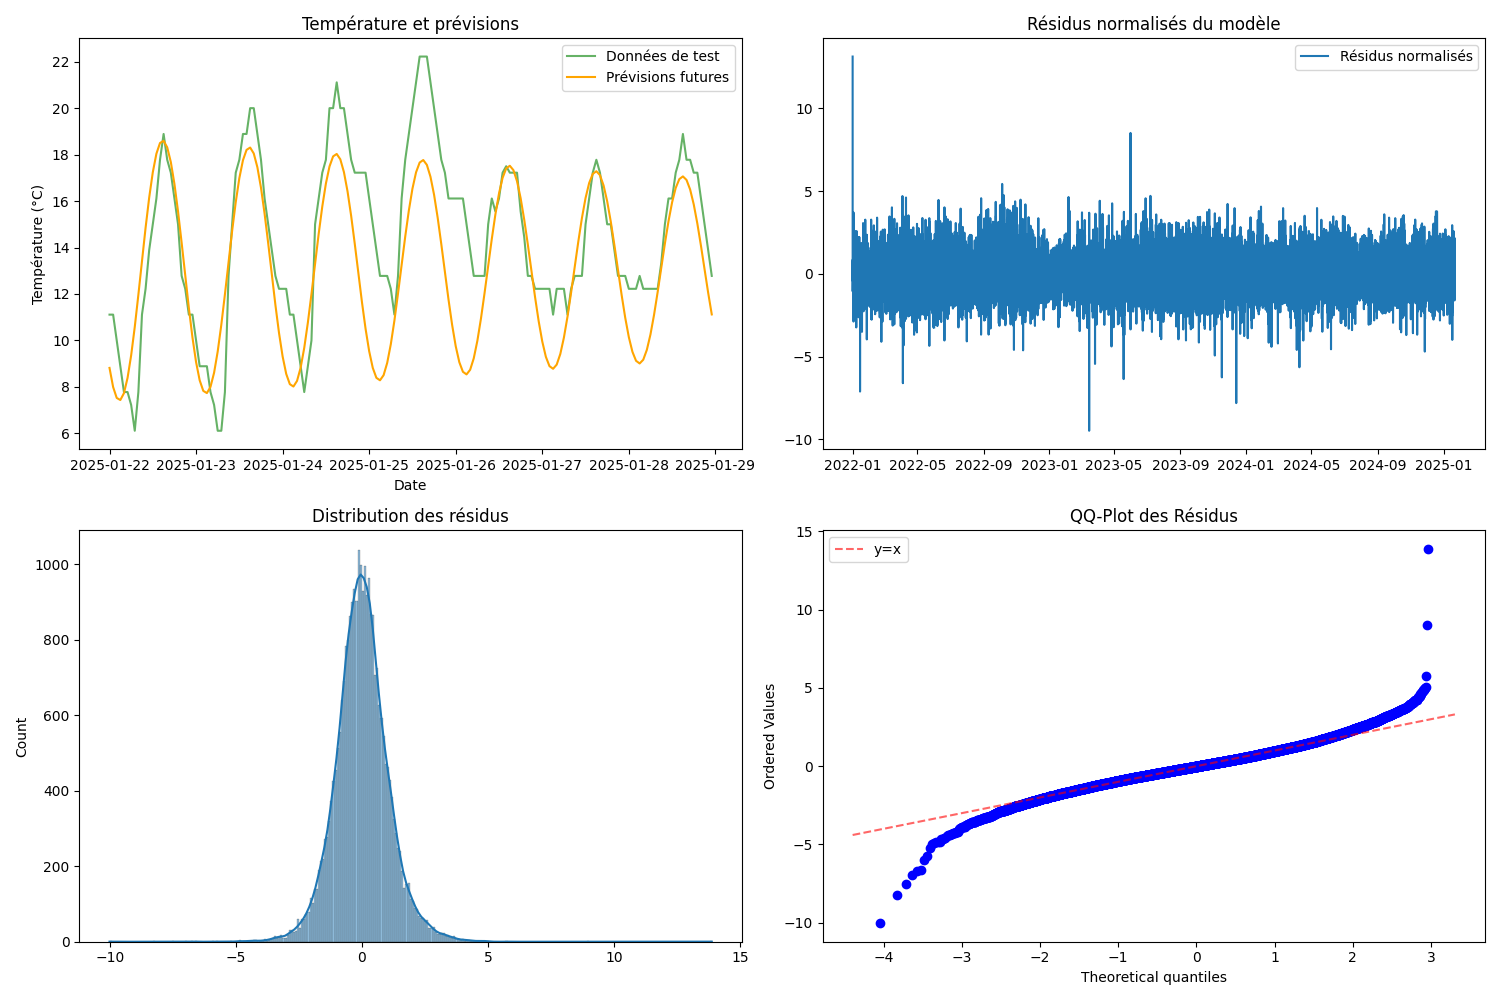
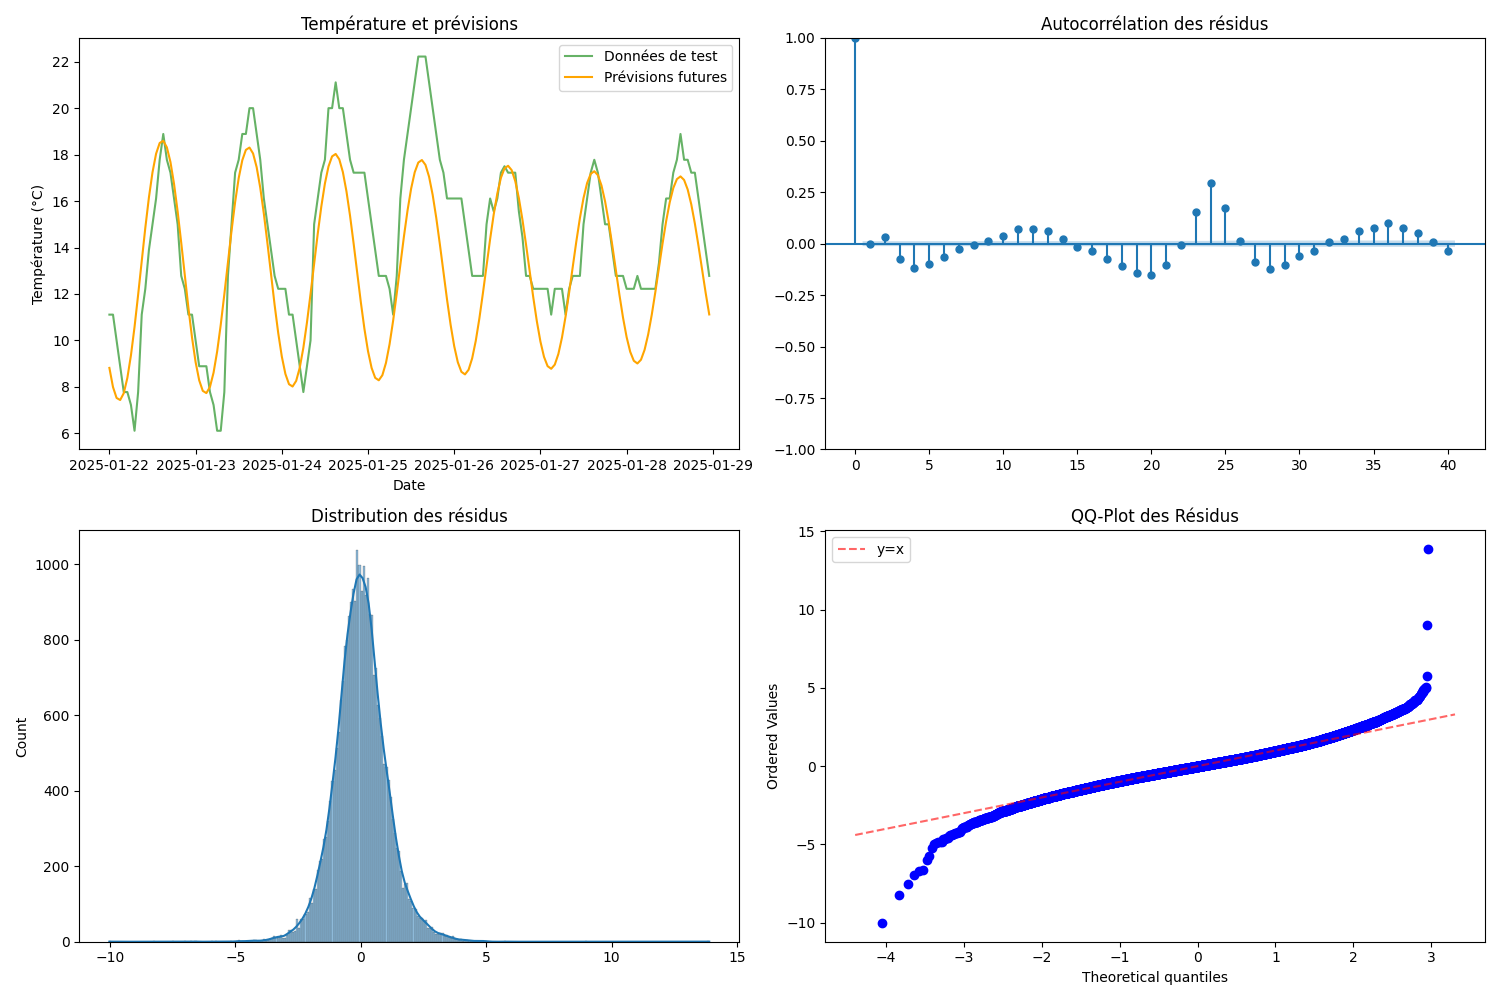
update graphe residu

diff --git a/results/weather_arima_autocorrelation.html b/results/weather_arima_autocorrelation.html
@@ -1,0 +1,7 @@
+<html>
+<head><meta charset="utf-8" /></head>
+<body>
+    <div>                        <script type="text/javascript">window.PlotlyConfig = {MathJaxConfig: 'local'};</script>
+        <script charset="utf-8" src="https://cdn.plot.ly/plotly-3.0.1.min.js"></script>                <div id="1fe10de1-fd3c-4826-87fc-9b6accea988b" class="plotly-graph-div" style="height:100%; width:100%;"></div>            <script type="text/javascript">                window.PLOTLYENV=window.PLOTLYENV || {};                                if (document.getElementById("1fe10de1-fd3c-4826-87fc-9b6accea988b")) {                    Plotly.newPlot(                        "1fe10de1-fd3c-4826-87fc-9b6accea988b",                        [{"name":"ACF","x":{"dtype":"i1","bdata":"AAECAwQFBgcICQoLDA0ODxAREhMUFRYXGBkaGxwdHh8gISIjJCUmJyg="},"y":{"dtype":"f8","bdata":"AAAAAAAA8D8zRkIDRnpmvxGBt0pakp8\u002f7rMiAuBAs79AdEeLuOe+v2jHeI18Urm\u002fcqatGunpsL\u002fzheldlnabv2Oip6cOlXa\u002f6y4Ux9W1iz8AziVPQRWkP42sIHuB7LE\u002fXawtO3TMsT+qq66B+MWuPwFlD1SY3pc\u002fH8XyHggbjb\u002fPJ2a0X\u002fGhvxvvwPNpZrO\u002fqdVTPRDLu7+75JFKXxbCvwVXd38HfMO\u002fnQEQ8XMXu79K7GdnEZN5v78OLbUtz8M\u002fTYreX3m20j+Irqb\u002fE2XGP2iyD6ESzYY\u002fKNbdF0iUtr9\u002f7ZUHRB6\u002fvzXCCX5fqrq\u002fEOS5hu7Brr9GXs\u002fe9Wmiv0SeCo03SXk\u002fUcfegbwimD+aC0VLw8iuP1Hf4ETzerM\u002flaHyew+suT8gUUGVgAa0PzbK1XuwSqs\u002fEvOgMzVidz+CFgEMm0Kivw=="},"type":"bar"}],                        {"template":{"data":{"histogram2dcontour":[{"type":"histogram2dcontour","colorbar":{"outlinewidth":0,"ticks":""},"colorscale":[[0.0,"#0d0887"],[0.1111111111111111,"#46039f"],[0.2222222222222222,"#7201a8"],[0.3333333333333333,"#9c179e"],[0.4444444444444444,"#bd3786"],[0.5555555555555556,"#d8576b"],[0.6666666666666666,"#ed7953"],[0.7777777777777778,"#fb9f3a"],[0.8888888888888888,"#fdca26"],[1.0,"#f0f921"]]}],"choropleth":[{"type":"choropleth","colorbar":{"outlinewidth":0,"ticks":""}}],"histogram2d":[{"type":"histogram2d","colorbar":{"outlinewidth":0,"ticks":""},"colorscale":[[0.0,"#0d0887"],[0.1111111111111111,"#46039f"],[0.2222222222222222,"#7201a8"],[0.3333333333333333,"#9c179e"],[0.4444444444444444,"#bd3786"],[0.5555555555555556,"#d8576b"],[0.6666666666666666,"#ed7953"],[0.7777777777777778,"#fb9f3a"],[0.8888888888888888,"#fdca26"],[1.0,"#f0f921"]]}],"heatmap":[{"type":"heatmap","colorbar":{"outlinewidth":0,"ticks":""},"colorscale":[[0.0,"#0d0887"],[0.1111111111111111,"#46039f"],[0.2222222222222222,"#7201a8"],[0.3333333333333333,"#9c179e"],[0.4444444444444444,"#bd3786"],[0.5555555555555556,"#d8576b"],[0.6666666666666666,"#ed7953"],[0.7777777777777778,"#fb9f3a"],[0.8888888888888888,"#fdca26"],[1.0,"#f0f921"]]}],"contourcarpet":[{"type":"contourcarpet","colorbar":{"outlinewidth":0,"ticks":""}}],"contour":[{"type":"contour","colorbar":{"outlinewidth":0,"ticks":""},"colorscale":[[0.0,"#0d0887"],[0.1111111111111111,"#46039f"],[0.2222222222222222,"#7201a8"],[0.3333333333333333,"#9c179e"],[0.4444444444444444,"#bd3786"],[0.5555555555555556,"#d8576b"],[0.6666666666666666,"#ed7953"],[0.7777777777777778,"#fb9f3a"],[0.8888888888888888,"#fdca26"],[1.0,"#f0f921"]]}],"surface":[{"type":"surface","colorbar":{"outlinewidth":0,"ticks":""},"colorscale":[[0.0,"#0d0887"],[0.1111111111111111,"#46039f"],[0.2222222222222222,"#7201a8"],[0.3333333333333333,"#9c179e"],[0.4444444444444444,"#bd3786"],[0.5555555555555556,"#d8576b"],[0.6666666666666666,"#ed7953"],[0.7777777777777778,"#fb9f3a"],[0.8888888888888888,"#fdca26"],[1.0,"#f0f921"]]}],"mesh3d":[{"type":"mesh3d","colorbar":{"outlinewidth":0,"ticks":""}}],"scatter":[{"fillpattern":{"fillmode":"overlay","size":10,"solidity":0.2},"type":"scatter"}],"parcoords":[{"type":"parcoords","line":{"colorbar":{"outlinewidth":0,"ticks":""}}}],"scatterpolargl":[{"type":"scatterpolargl","marker":{"colorbar":{"outlinewidth":0,"ticks":""}}}],"bar":[{"error_x":{"color":"#2a3f5f"},"error_y":{"color":"#2a3f5f"},"marker":{"line":{"color":"#E5ECF6","width":0.5},"pattern":{"fillmode":"overlay","size":10,"solidity":0.2}},"type":"bar"}],"scattergeo":[{"type":"scattergeo","marker":{"colorbar":{"outlinewidth":0,"ticks":""}}}],"scatterpolar":[{"type":"scatterpolar","marker":{"colorbar":{"outlinewidth":0,"ticks":""}}}],"histogram":[{"marker":{"pattern":{"fillmode":"overlay","size":10,"solidity":0.2}},"type":"histogram"}],"scattergl":[{"type":"scattergl","marker":{"colorbar":{"outlinewidth":0,"ticks":""}}}],"scatter3d":[{"type":"scatter3d","line":{"colorbar":{"outlinewidth":0,"ticks":""}},"marker":{"colorbar":{"outlinewidth":0,"ticks":""}}}],"scattermap":[{"type":"scattermap","marker":{"colorbar":{"outlinewidth":0,"ticks":""}}}],"scattermapbox":[{"type":"scattermapbox","marker":{"colorbar":{"outlinewidth":0,"ticks":""}}}],"scatterternary":[{"type":"scatterternary","marker":{"colorbar":{"outlinewidth":0,"ticks":""}}}],"scattercarpet":[{"type":"scattercarpet","marker":{"colorbar":{"outlinewidth":0,"ticks":""}}}],"carpet":[{"aaxis":{"endlinecolor":"#2a3f5f","gridcolor":"white","linecolor":"white","minorgridcolor":"white","startlinecolor":"#2a3f5f"},"baxis":{"endlinecolor":"#2a3f5f","gridcolor":"white","linecolor":"white","minorgridcolor":"white","startlinecolor":"#2a3f5f"},"type":"carpet"}],"table":[{"cells":{"fill":{"color":"#EBF0F8"},"line":{"color":"white"}},"header":{"fill":{"color":"#C8D4E3"},"line":{"color":"white"}},"type":"table"}],"barpolar":[{"marker":{"line":{"color":"#E5ECF6","width":0.5},"pattern":{"fillmode":"overlay","size":10,"solidity":0.2}},"type":"barpolar"}],"pie":[{"automargin":true,"type":"pie"}]},"layout":{"autotypenumbers":"strict","colorway":["#636efa","#EF553B","#00cc96","#ab63fa","#FFA15A","#19d3f3","#FF6692","#B6E880","#FF97FF","#FECB52"],"font":{"color":"#2a3f5f"},"hovermode":"closest","hoverlabel":{"align":"left"},"paper_bgcolor":"white","plot_bgcolor":"#E5ECF6","polar":{"bgcolor":"#E5ECF6","angularaxis":{"gridcolor":"white","linecolor":"white","ticks":""},"radialaxis":{"gridcolor":"white","linecolor":"white","ticks":""}},"ternary":{"bgcolor":"#E5ECF6","aaxis":{"gridcolor":"white","linecolor":"white","ticks":""},"baxis":{"gridcolor":"white","linecolor":"white","ticks":""},"caxis":{"gridcolor":"white","linecolor":"white","ticks":""}},"coloraxis":{"colorbar":{"outlinewidth":0,"ticks":""}},"colorscale":{"sequential":[[0.0,"#0d0887"],[0.1111111111111111,"#46039f"],[0.2222222222222222,"#7201a8"],[0.3333333333333333,"#9c179e"],[0.4444444444444444,"#bd3786"],[0.5555555555555556,"#d8576b"],[0.6666666666666666,"#ed7953"],[0.7777777777777778,"#fb9f3a"],[0.8888888888888888,"#fdca26"],[1.0,"#f0f921"]],"sequentialminus":[[0.0,"#0d0887"],[0.1111111111111111,"#46039f"],[0.2222222222222222,"#7201a8"],[0.3333333333333333,"#9c179e"],[0.4444444444444444,"#bd3786"],[0.5555555555555556,"#d8576b"],[0.6666666666666666,"#ed7953"],[0.7777777777777778,"#fb9f3a"],[0.8888888888888888,"#fdca26"],[1.0,"#f0f921"]],"diverging":[[0,"#8e0152"],[0.1,"#c51b7d"],[0.2,"#de77ae"],[0.3,"#f1b6da"],[0.4,"#fde0ef"],[0.5,"#f7f7f7"],[0.6,"#e6f5d0"],[0.7,"#b8e186"],[0.8,"#7fbc41"],[0.9,"#4d9221"],[1,"#276419"]]},"xaxis":{"gridcolor":"white","linecolor":"white","ticks":"","title":{"standoff":15},"zerolinecolor":"white","automargin":true,"zerolinewidth":2},"yaxis":{"gridcolor":"white","linecolor":"white","ticks":"","title":{"standoff":15},"zerolinecolor":"white","automargin":true,"zerolinewidth":2},"scene":{"xaxis":{"backgroundcolor":"#E5ECF6","gridcolor":"white","linecolor":"white","showbackground":true,"ticks":"","zerolinecolor":"white","gridwidth":2},"yaxis":{"backgroundcolor":"#E5ECF6","gridcolor":"white","linecolor":"white","showbackground":true,"ticks":"","zerolinecolor":"white","gridwidth":2},"zaxis":{"backgroundcolor":"#E5ECF6","gridcolor":"white","linecolor":"white","showbackground":true,"ticks":"","zerolinecolor":"white","gridwidth":2}},"shapedefaults":{"line":{"color":"#2a3f5f"}},"annotationdefaults":{"arrowcolor":"#2a3f5f","arrowhead":0,"arrowwidth":1},"geo":{"bgcolor":"white","landcolor":"#E5ECF6","subunitcolor":"white","showland":true,"showlakes":true,"lakecolor":"white"},"title":{"x":0.05},"mapbox":{"style":"light"}}},"shapes":[{"line":{"color":"red","dash":"dash"},"type":"line","x0":0,"x1":40,"y0":0.011979983554976594,"y1":0.011979983554976594},{"line":{"color":"red","dash":"dash"},"type":"line","x0":0,"x1":40,"y0":-0.011979983554976594,"y1":-0.011979983554976594}],"title":{"text":"ACF des r\u00e9sidus"},"xaxis":{"title":{"text":"Lag"}},"showlegend":true,"yaxis":{"title":{"text":"Autocorr\u00e9lation"}}},                        {"responsive": true}                    )                };            </script>        </div>
+</body>
+</html>

diff --git a/scripts/weather_arima.py b/scripts/weather_arima.py
@@ -10,6 +10,7 @@ from arch import arch_model
 import statsmodels.api as sm
 from statsmodels.graphics.tsaplots import plot_acf
 from plot_corr_predit import plot_correlation  
+import plotly.graph_objects as go
 
 # Ignore les warnings pour un affichage plus propre
 warnings.filterwarnings("ignore")
@@ -80,6 +81,7 @@ def plot_results(data, model_fit, test_data=None):
     # Prédictions sur les données d'entraînement
     forecast = model_fit.get_prediction(start=data.index[0], end=data.index[-1])
     forecast_mean = forecast.predicted_mean
+    residuals = data - forecast_mean
     
     # Prédictions futures
     future_steps = len(test_data)  # 24 heures
@@ -91,24 +93,19 @@ def plot_results(data, model_fit, test_data=None):
     
     # 1. Données et prédictions
     plt.subplot(2, 2, 1)
-    #plt.plot(data, label='Données d\'entraînement', color='blue', alpha=0.6)
     if test_data is not None:
         plt.plot(test_data, label='Données de test', color='green', alpha=0.6)
-    #plt.plot(forecast_mean.index, forecast_mean, label='Prévisions ARIMA', color='red')
     plt.plot(future_forecast_mean.index, future_forecast_mean, label='Prévisions futures', color='orange')
     plt.title('Température et prévisions')
     plt.xlabel('Date')
     plt.ylabel('Température (°C)')
     plt.legend()
     
-    # 2. Résidus normalisés
+    # 2. Autocorrélation des résidus
     plt.subplot(2, 2, 2)
-    residuals = model_fit.resid
-    normalized_residuals = (residuals - residuals.mean()) / residuals.std()
-    plt.plot(normalized_residuals, label='Résidus normalisés')
-    plt.title('Résidus normalisés du modèle')
-    plt.legend()
-    
+    plot_acf(residuals[~np.isnan(residuals)], ax=plt.gca(), lags=40)
+    plt.title('Autocorrélation des résidus')
+
     # 3. Distribution des résidus
     plt.subplot(2, 2, 3)
     sns.histplot(residuals, kde=True)
@@ -118,16 +115,16 @@ def plot_results(data, model_fit, test_data=None):
     plt.subplot(2, 2, 4)
     from scipy import stats
     stats.probplot(residuals, dist="norm", plot=plt)
-    ax = plt.gca()  # Récupère l'axe courant
-    lims = ax.get_xlim()  # Récupère les limites actuelles
-    ax.plot(lims, lims, 'r--', label='y=x', alpha=0.6)  # Trace la droite y=x
+    ax = plt.gca()
+    lims = ax.get_xlim()
+    ax.plot(lims, lims, 'r--', label='y=x', alpha=0.6)
     ax.set_title("QQ-Plot des Résidus")
     ax.legend()
 
-    
     plt.tight_layout()
     plt.savefig('./results/weather_arima_results.png')
     plt.show()
+
 
 def plot_test_predictions(train_data, test_data, forecast_mean):
     """Affiche un graphique détaillé des prédictions sur l'ensemble de test."""
